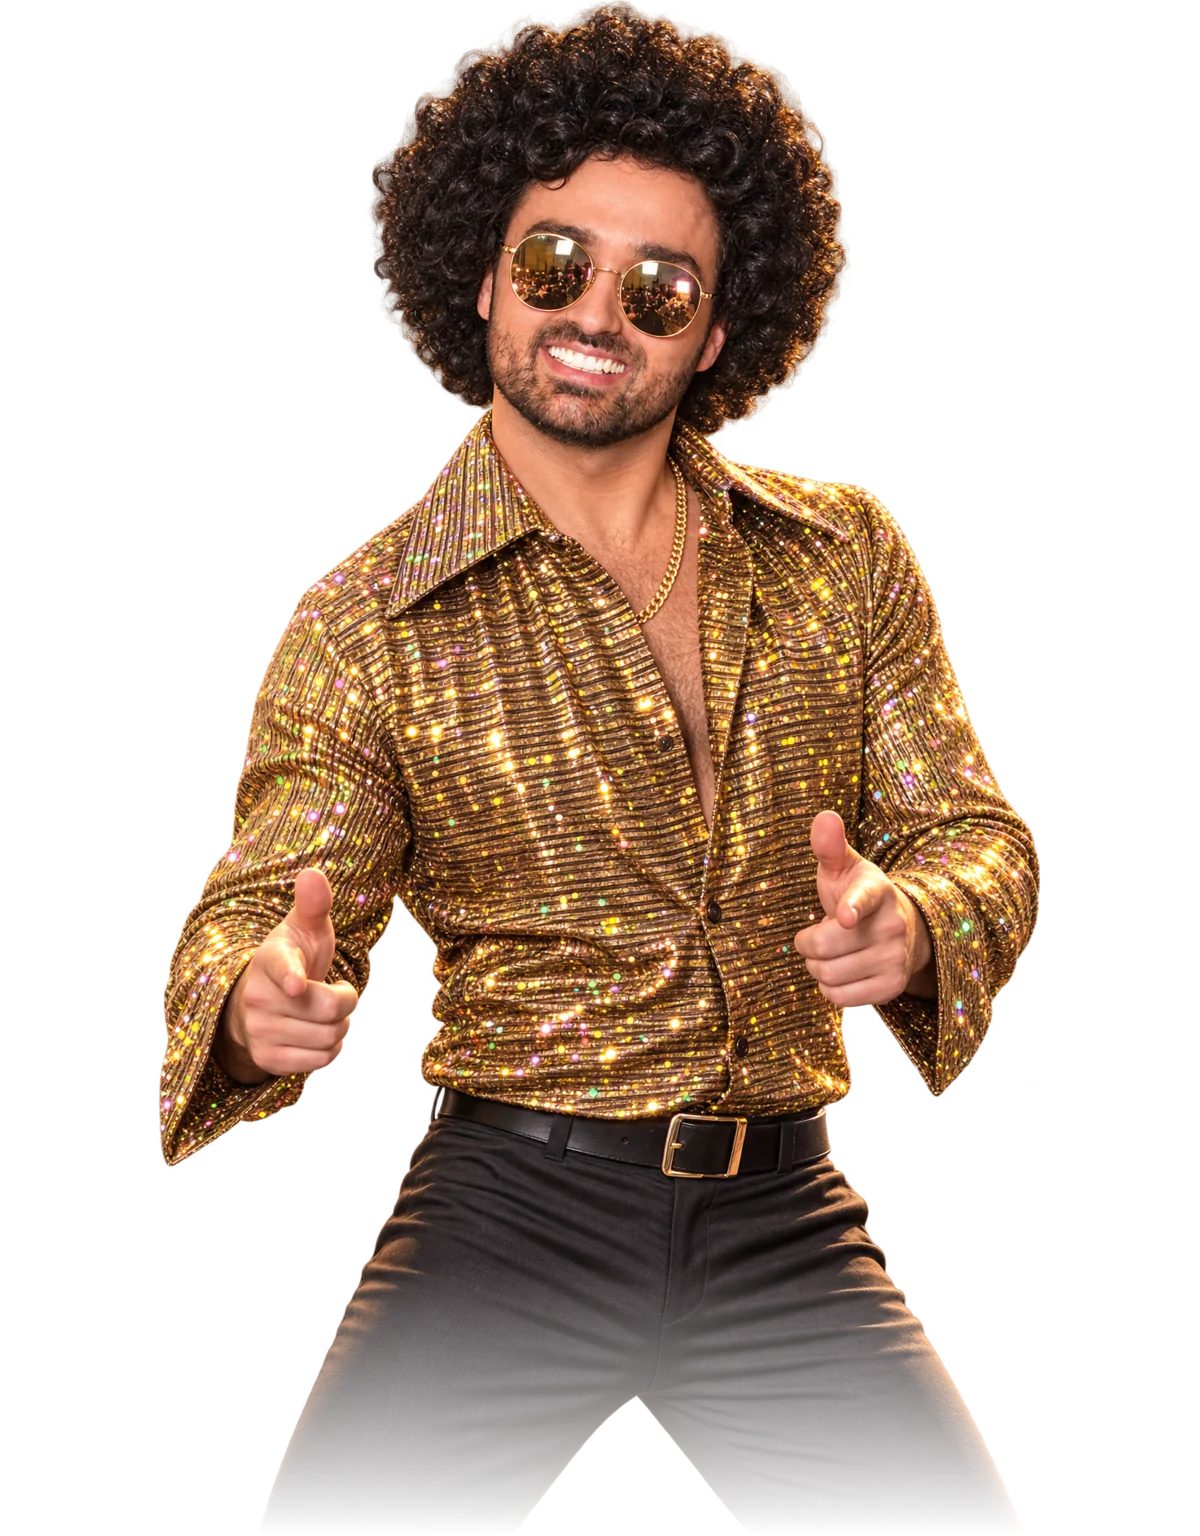
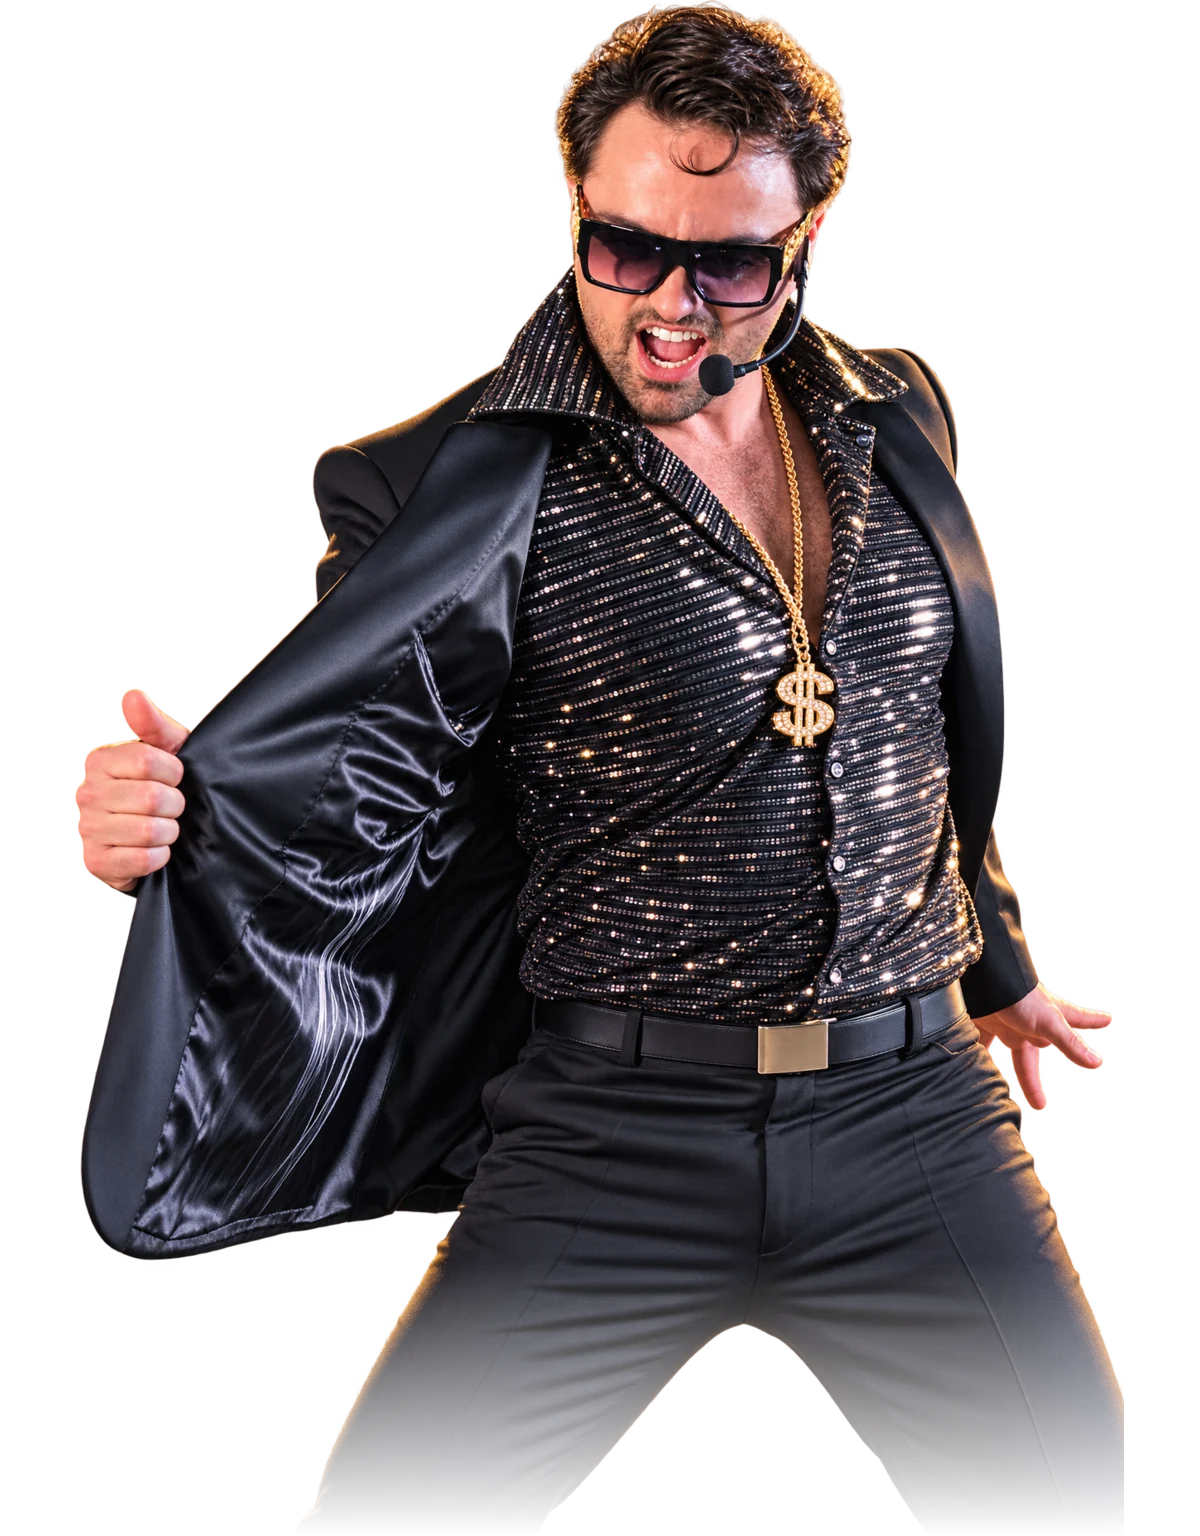
Hero : Roi du disco refait d'après la vraie photo de scène
Lunettes carrées fumées, chemise noire rayée à paillettes, collier doré en signe de dollar,
micro-casque, veston satiné ouvert d'un geste — ses vrais cheveux, plus d'afro doré.

diff --git a/index.html b/index.html
@@ -184,7 +184,7 @@
             <img class="cam-fig" style="--k:-1;--d:1;--o:2;--side:-1" data-role="Crooner" width="1200" height="1536" src="images/hero/crooner.webp" alt="Dominic en crooner, foulard blanc et micro rétro" draggable="false">
             <img class="cam-fig is-active" style="--k:0;--d:0;--o:3;--side:-1" data-role="Animateur" width="1200" height="1536" src="images/hero/dominic.webp" alt="Dominic St-Laurent, veston bourgogne, micro en main" fetchpriority="high" draggable="false">
             <img class="cam-fig" style="--k:1;--d:1;--o:4;--side:1" data-role="DJ" width="1200" height="1536" src="images/hero/dj.webp" alt="Dominic en DJ, écouteurs et lunettes fumées" draggable="false">
-            <img class="cam-fig" style="--k:2;--d:2;--o:5;--side:1" data-role="Roi du disco" width="1200" height="1536" src="images/hero/disco.webp" alt="Dominic en chemise dorée disco" draggable="false">
+            <img class="cam-fig" style="--k:2;--d:2;--o:5;--side:1" data-role="Roi du disco" width="1200" height="1536" src="images/hero/disco.webp" alt="Dominic en showman disco : lunettes carrées, chemise à paillettes et collier doré" draggable="false">
             <img class="cam-fig" style="--k:3;--d:3;--o:6;--side:1" data-role="Personnage loufoque" width="1200" height="1536" src="images/hero/loufoque.webp" alt="Dominic en personnage loufoque : perruque noire, lunettes rosées, pose dramatique" draggable="false">
             <!-- Base de l'éventail : le bandeau. (La version « manche de couteau » est archivée : images/hero/sources/archives/) -->
             <p class="cam-band" aria-hidden="true"><span>Le couteau suisse de la scène</span></p>
